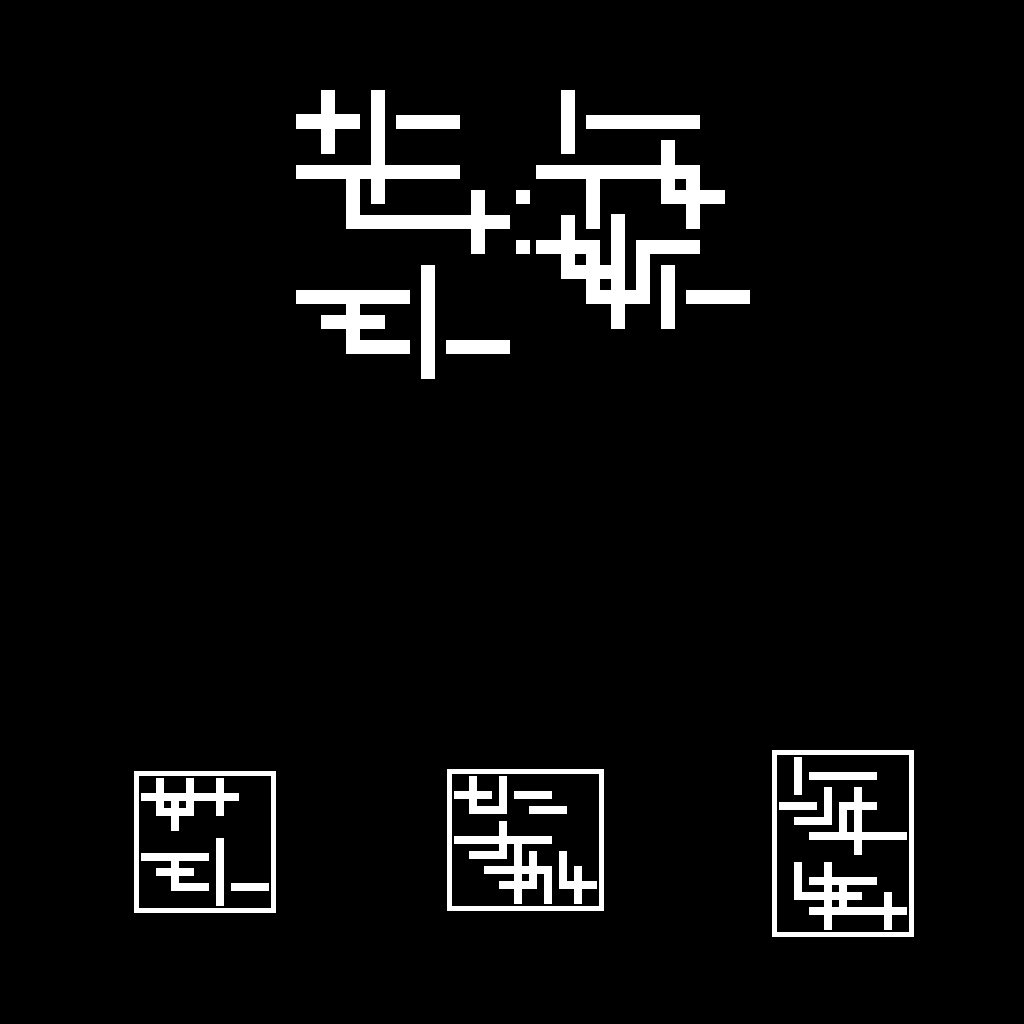
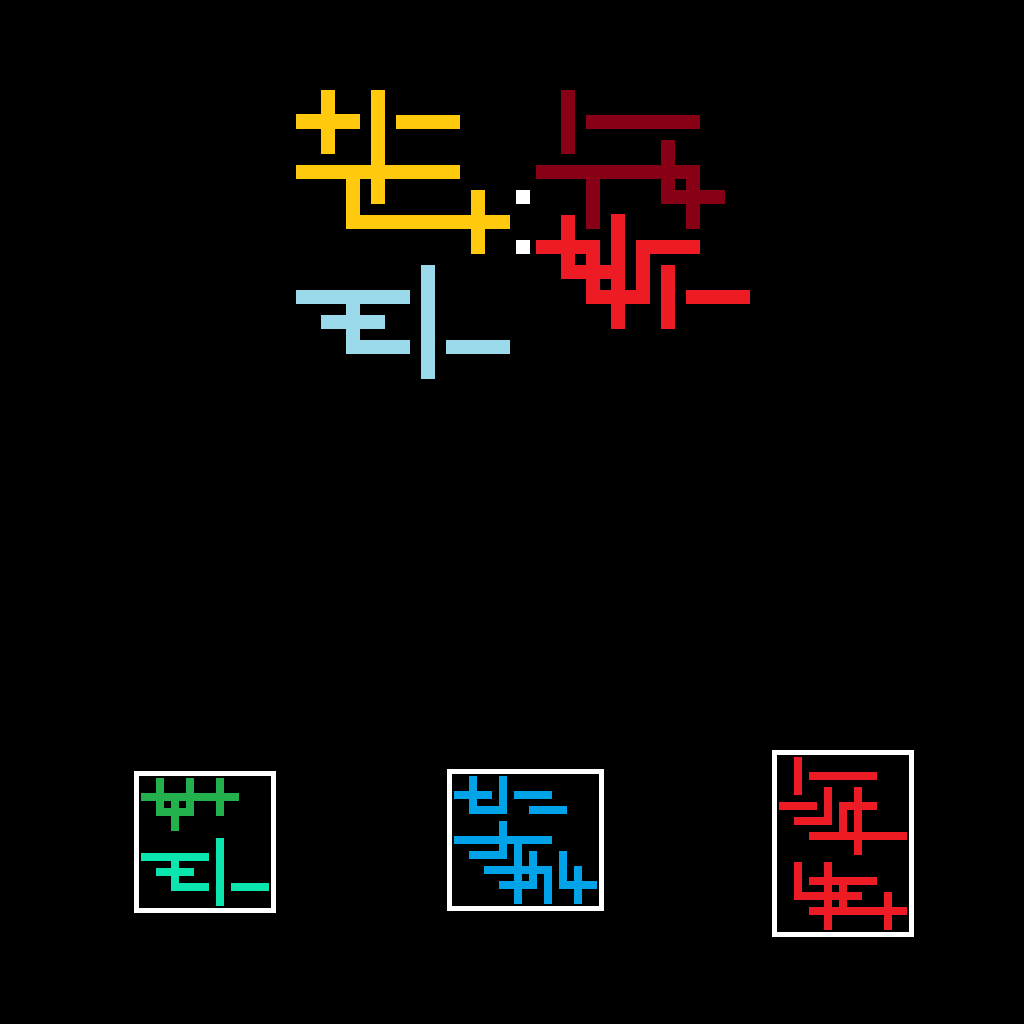
more menu stuff, worked on frustrum/visibility culling to reduce load

diff --git a/Script/Voxels/VoxelChunk.cs b/Script/Voxels/VoxelChunk.cs
@@ -1,4 +1,5 @@
 using System;
+using System.Collections.Generic;
 using Godot;
 using Array = Godot.Collections.Array;
 
@@ -14,7 +15,7 @@ public partial class VoxelChunk : MeshInstance3D
     private string _hash = "";
     private ArrayMesh _myMesh;
     private Vector2[] _uvs;
-    public bool Dirty { get; set; } = true;
+    public List<Vector3> Dirty { get; } = new();
     public byte[] Voxels { get; private set; } = System.Array.Empty<byte>();
 
     // Called when the node enters the scene tree for the first time.
@@ -79,16 +80,20 @@ public partial class VoxelChunk : MeshInstance3D
         _collider.Shape = VoxelBuilder.BuildShape(Voxels);
     }
 
-    public bool Redraw()
+    public bool Redraw(Camera3D playerCamera)
     {
-        if (!Dirty) return false;
+        if (Dirty.Count == 0) return false;
 
+        if (!VisibilityTester.AnyVoxelsVisible(Dirty, GetViewport())) return false;
+        
         VoxelBuilder.UpdateMeshTexture(_arrays, _uvs, Voxels);
         _myMesh.ClearSurfaces();
         _myMesh.AddSurfaceFromArrays(Mesh.PrimitiveType.Triangles, _arrays);
-        Dirty = false;
+        Dirty.Clear();
         return true;
     }
+
+    
 
     public void ClearChunk()
     {

diff --git a/Script/Voxels/WireWorldRef.cs b/Script/Voxels/WireWorldRef.cs
@@ -5,36 +5,28 @@ namespace StarLoop.Script.Voxels;
 public class WireWorldRef
 {
     private readonly int _index;
-    private readonly byte _originalValue;
     public readonly VoxelChunk Chunk;
     public readonly Vector3I VoxelPos;
+    public byte CurrentValue { get; private set; }
+    public byte NextValue { get; set; }
 
     public WireWorldRef(Vector3I voxelPos, VoxelChunk chunk, int index)
     {
         VoxelPos = voxelPos;
-        _originalValue = chunk.Voxels[index];
         Chunk = chunk;
         _index = index;
-        CurrentValue = _originalValue;
+        CurrentValue = chunk.Voxels[index];
         NextValue = CurrentValue;
     }
 
-    public byte CurrentValue { get; private set; }
-    public byte NextValue { get; set; }
 
     public void Finish()
     {
         if (CurrentValue == NextValue)
             return;
 
-        Chunk.Dirty = true;
+        Chunk.Dirty.Add((VoxelPos+ Vector3.One / 2) / VoxelConstants.VoxelScalar);
         CurrentValue = NextValue;
         Chunk.Voxels[_index] = CurrentValue;
-    }
-
-    public void PreSave()
-    {
-        Chunk.Dirty = true;
-        Chunk.Voxels[_index] = _originalValue;
     }
 }

diff --git a/Script/WireWorldController.cs b/Script/WireWorldController.cs
@@ -24,6 +24,7 @@ public partial class WireWorldController : Node
         new(1, 1, -1), new(1, 1, 0), new(1, 1, 1)
     };
 
+    [Export] public Camera3D PlayerCam { get; private set; }
     private readonly List<WireWorldRef> _wireWorldVoxels = new();
     public static int Step { get; private set; }
 
@@ -51,11 +52,10 @@ public partial class WireWorldController : Node
             for (var index = 0; index < Offsets.Length; index++)
                 neighbors[index] = voxels.GetVoxel(entry.VoxelPos + Offsets[index]);
 
-            List<WireWorldTransition> futures = new();
-            foreach (var rule in TransitionRules.Transitions[entry.CurrentValue])
-                if (Matches(rule.Neighbors, neighbors))
-                    futures.Add(rule);
-
+            var futures = TransitionRules
+                .Transitions[entry.CurrentValue]
+                .Where(rule => Matches(rule.Neighbors, neighbors))
+                .ToList();
 
             ParseTransition(futures, entry);
         });

diff --git a/Script/Voxels/VisibilityTester.cs b/Script/Voxels/VisibilityTester.cs
@@ -1,0 +1,29 @@
+using System;
+using System.Collections.Generic;
+using System.Linq;
+using Godot;
+
+namespace StarLoop.Script.Voxels;
+
+public static class VisibilityTester
+{
+    public static bool AnyVoxelsVisible(List<Vector3> dirty, Viewport mainViewport)
+    {
+        var camera = mainViewport.GetCamera3D();
+        var spaceState = mainViewport.World3D.DirectSpaceState;
+
+        return (from candidate in dirty
+                    .Where(camera.IsPositionInFrustum)
+                    .OrderBy(vector3 => vector3.DistanceSquaredTo(camera.GlobalPosition))
+                    .Reverse() 
+            let result = spaceState
+                .IntersectRay(new PhysicsRayQueryParameters3D
+                { From = camera.GlobalPosition, 
+                    To = candidate }) 
+            where result.Count > 0 
+            let pos = (Vector3)result["position"] 
+            where pos.DistanceSquaredTo(candidate) < 1 
+            select candidate)
+            .Any();
+    }
+}

diff --git a/Script/VoxelController.cs b/Script/VoxelController.cs
@@ -56,10 +56,7 @@ public partial class VoxelController : Node
     {
         foreach (var chunk in _registry)
         {
-            if (chunk.Value.Redraw())
-            {
-                // wireWorldController.Register(chunk.Key, chunk.Value);
-            }
+            chunk.Value.Redraw(wireWorldController.PlayerCam);
         }
     }
 }
